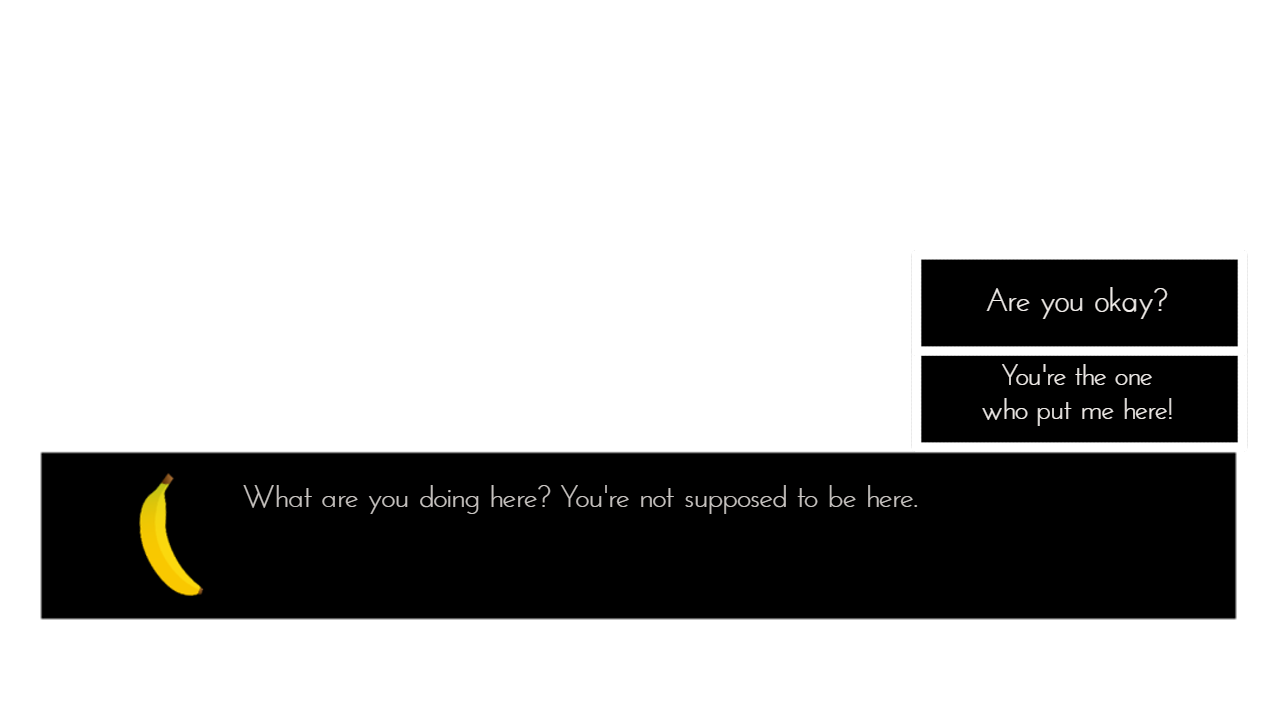
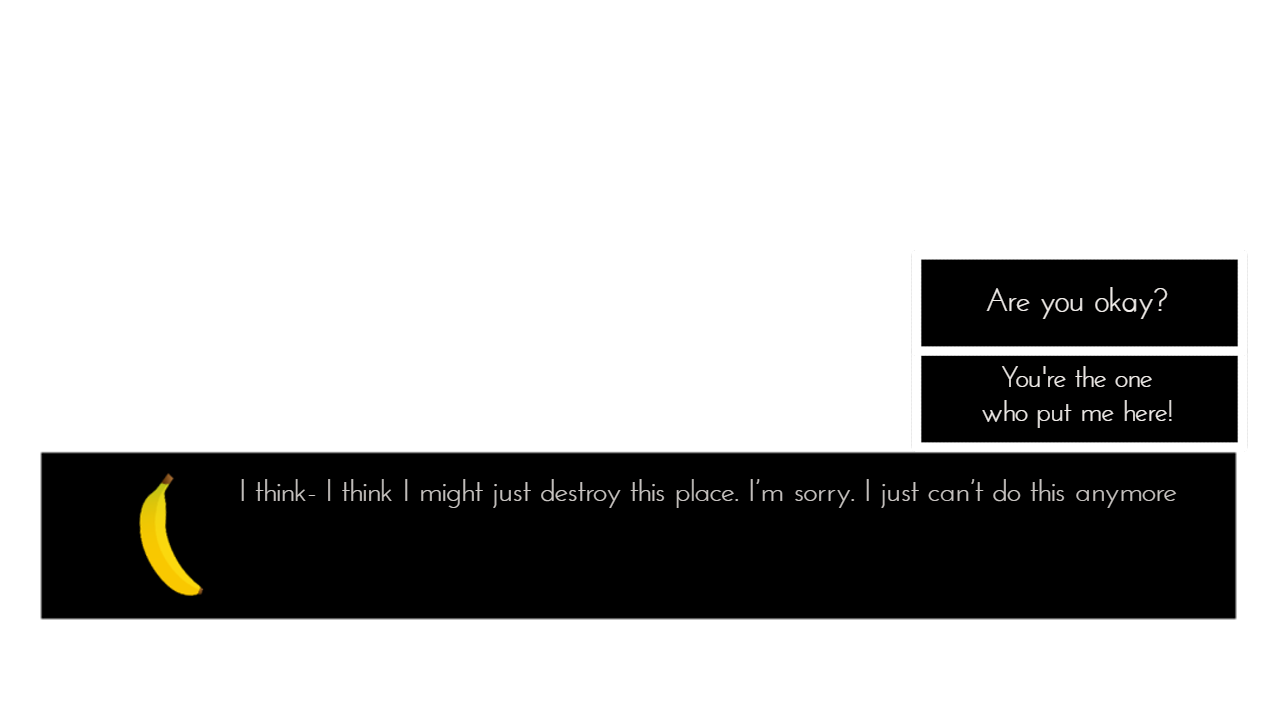
partial implementation of room 3

Changed region(s): [[0.1875, 0.6722, 0.9062, 0.7028], [0.75, 0.5194, 0.9062, 0.5806]]

diff --git a/Gamefx/LevelThree.java b/Gamefx/LevelThree.java
@@ -21,12 +21,6 @@ import javafx.util.Duration;
 
 public class LevelThree
 {
-   private static AtomicReference <Boolean> won = new AtomicReference<>(false);
-   
-   public static Boolean getWin()
-   {
-      return won.get();
-   }
    
    /**
     * This is the createLevelThree method of the levelTwoThree class. It will initalize the scene and add elements to the group root, which will be used to initalize the scene. 
@@ -36,26 +30,94 @@ public class LevelThree
     */
    public static Scene createLevelThree() throws FileNotFoundException
    {
-      ImageView one = new ImageView (new Image("/Images/Room3/room3_1.png"));
-      one.setPreserveRatio(true);
-      one.setFitWidth(50);
-      one.setFitHeight(50);
-      one.setX(1280);
-      one.setY(720);
+   
+      //Background Images
+      ImageView voidRoom = new ImageView(new Image("/Images/Room3/room3_void.png"));
+      voidRoom.setPreserveRatio(true);
+      voidRoom.setFitWidth(1280);
+      voidRoom.setFitHeight(720);
+      
+      ImageView ps5 = new ImageView(new Image("/Images/Room3/room3_ps5.png"));
+      ps5.setPreserveRatio(true);
+      ps5.setFitWidth(1280);
+      ps5.setFitHeight(720);
+      
+      ImageView painting = new ImageView(new Image("/Images/Room3/room3_painting.png"));
+      painting.setPreserveRatio(true);
+      painting.setFitWidth(1280);
+      painting.setFitHeight(720);
+      
+      ImageView guitar = new ImageView(new Image("/Images/Room3/room3_guitar.png"));
+      guitar.setPreserveRatio(true);
+      guitar.setFitWidth(1280);
+      guitar.setFitHeight(720);
+      
+      ImageView happy = new ImageView(new Image("/Images/Room3/room3_happy.png"));
+      happy.setPreserveRatio(true);
+      happy.setFitWidth(1280);
+      happy.setFitHeight(720);
+      
+      //Dialogue
+      ImageView ba1 = new ImageView(new Image("/Images/Room3/Dialogue/BA1.png"));
+      ba1.setPreserveRatio(true);
+      ba1.setFitWidth(1280);
+      ba1.setFitHeight(720);
 
+      ImageView ba2 = new ImageView(new Image("/Images/Room3/Dialogue/BA2.png"));
+      ba2.setPreserveRatio(true);
+      ba2.setFitWidth(1280);
+      ba2.setFitHeight(720);
+
+      ImageView ba3 = new ImageView(new Image("/Images/Room3/Dialogue/BA3.png"));
+      ba3.setPreserveRatio(true);
+      ba3.setFitWidth(1280);
+      ba3.setFitHeight(720);
+      
+      ImageView ba4 = new ImageView(new Image("/Images/Room3/Dialogue/BA4.png"));
+      ba4.setPreserveRatio(true);
+      ba4.setFitWidth(1280);
+      ba4.setFitHeight(720);
+
+      ImageView ba4_1_1 = new ImageView(new Image("/Images/Room3/Dialogue/BA4-1-1.png"));
+      ba4_1_1.setPreserveRatio(true);
+      ba4_1_1.setFitWidth(1280);
+      ba4_1_1.setFitHeight(720);
+      
+      ImageView ba4_1_2 = new ImageView(new Image("/Images/Room3/Dialogue/BA4-1-2.png"));
+      ba4_1_2.setPreserveRatio(true);
+      ba4_1_2.setFitWidth(1280);
+      ba4_1_2.setFitHeight(720);
+      
+      ImageView ba5 = new ImageView(new Image("/Images/Room3/Dialogue/BA5.png"));
+      ba5.setPreserveRatio(true);
+      ba5.setFitWidth(1280);
+      ba5.setFitHeight(720);
+      
+      ImageView ba6 = new ImageView(new Image("/Images/Room3/Dialogue/BA6.png"));
+      ba6.setPreserveRatio(true);
+      ba6.setFitWidth(1280);
+      ba6.setFitHeight(720);
+      
+      ImageView ba6C = new ImageView(new Image("/Images/Room3/Dialogue/BA6_Choices.png"));
+      ba6C.setPreserveRatio(true);
+      ba6C.setFitWidth(1280);
+      ba6C.setFitHeight(720);
+      
+      ImageView ba7_1 = new ImageView(new Image("/Images/Room3/Dialogue/BA7-1.png"));
+      ba7_1.setPreserveRatio(true);
+      ba7_1.setFitWidth(1280);
+      ba7_1.setFitHeight(720);
+      
+      ImageView ba7_2 = new ImageView(new Image("/Images/Room3/Dialogue/BA7-2.png"));
+      ba7_2.setPreserveRatio(true);
+      ba7_2.setFitWidth(1280);
+      ba7_2.setFitHeight(720);
       
       Group root = new Group();
-      root.getChildren().add(scenes.get(0));
-      root.getChildren().add(rightButt);
-      root.getChildren().add(leftButt);
-      root.getChildren().add(objective);
+      root.getChildren().add(voidRoom);
+      root.getChildren().add(ba1);
       Scene scene = new Scene(root, Color.WHITE);
-      
-      //boolean variables
-      AtomicReference<Boolean> inSafe = new AtomicReference<>(false);
-      AtomicReference<Boolean> safeOpen = new AtomicReference<>(false);
-      AtomicReference<String> code = new AtomicReference<>("");
-      AtomicReference<Boolean> inDialogue = new AtomicReference<>(false);
+
       
       scene.setOnMouseClicked(
             new EventHandler<MouseEvent>() {
@@ -63,8 +125,30 @@ public class LevelThree
                public void handle(MouseEvent event) {
                   int x = (int)event.getX();
                   int y = (int)event.getY();
+                  //For normal dialogue
+                  if (root.getChildren().indexOf(ba1) != -1 && x >= 30 && x <= 1245 && y >= 440 && y <= 630)
+                  {
+                     root.getChildren().remove(ba1);
+                     root.getChildren().add(ba2);
+                  }
+                  if (root.getChildren().indexOf(ba2) != -1 && x >= 30 && x <= 1245 && y >= 440 && y <= 630)
+                  {
+                     root.getChildren().remove(ba2);
+                     root.getChildren().add(ba3);
+                  }
+                  //For choosing dialogue
+                  if (root.getChildren().indexOf(ba3) != -1)
+                  {
+                     if (x >= 910 && x <= 1250 && y >= 250 && y <= 350){
+                        root.getChildren().add(ba4);
+                        root.getChildren().remove(ba3);
+                     }
+                     else if (x >= 910 && x <= 1250 && y >= 350 && y <= 440){
+                        root.getChildren().add(ba4_1_1);
+                        root.getChildren().remove(ba4_1_2);
+                     }    
+                  }
                }
-               
             });
       scene.setOnMouseMoved(
          new EventHandler<MouseEvent>() {

diff --git a/Gamefx/Main.java b/Gamefx/Main.java
@@ -55,6 +55,8 @@ public class Main extends Application {
    private Scene lvl1;
    /**This is the variable that stores the scene created by LevelTwo.*/
    private Scene lvl2;
+   /**This is the variable that stores the scene created by LevelThree.*/
+   private Scene lvl3;
    /**This is the variable that stores the scene created by LevelTwoP2.*/
    private Scene lvl22;
    /**This is the variable that stores the scene created by Instructions.*/
@@ -78,6 +80,7 @@ public class Main extends Application {
       lvl1 = LevelOne.createLevelOne();
       lvl2 = LevelTwo.createLevelTwo();
       lvl22 = LevelTwoP2.createLevelTwoP2();
+      lvl3 = LevelThree.createLevelThree();
       instructions = Instructions.createInstructions();
       menu = Menu.createMenu();
       stage.setScene(menu);
@@ -91,7 +94,7 @@ public class Main extends Application {
                   //System.out.println(x + ", " + y); //helper. will be removed
                   if (x >= 90 && x <= 195 && y >= 430 && y <= 455)
                   {
-                     stage.setScene(lvl2);
+                     stage.setScene(lvl3);
                   }
                   else if (x >= 90 && x <= 350 && y >= 485 && y <= 515)
                   {
@@ -138,7 +141,7 @@ public class Main extends Application {
       lvl22.setOnKeyPressed(
          e -> {
             if (e.getCode() == KeyCode.SPACE && LevelTwoP2.getWin()) {
-               stage.setScene(menu);
+               stage.setScene(lvl3);
             }
          });
    

diff --git a/Gamefx/LevelTwo.java b/Gamefx/LevelTwo.java
@@ -162,7 +162,7 @@ public class LevelTwo
       ba4_2_3.setPreserveRatio(true);
       ba4_2_3.setFitWidth(1280);
       ba4_2_3.setFitHeight(720);
-      ImageView ba4_2_4 = new ImageView(new Image("/Images/Room2/Dialogue/BA4.2.4.png"));
+      ImageView ba4_2_4 = new ImageView(new Image("/Images/General/Ending.png"));
       ba4_2_4.setPreserveRatio(true);
       ba4_2_4.setFitWidth(1280);
       ba4_2_4.setFitHeight(720);
